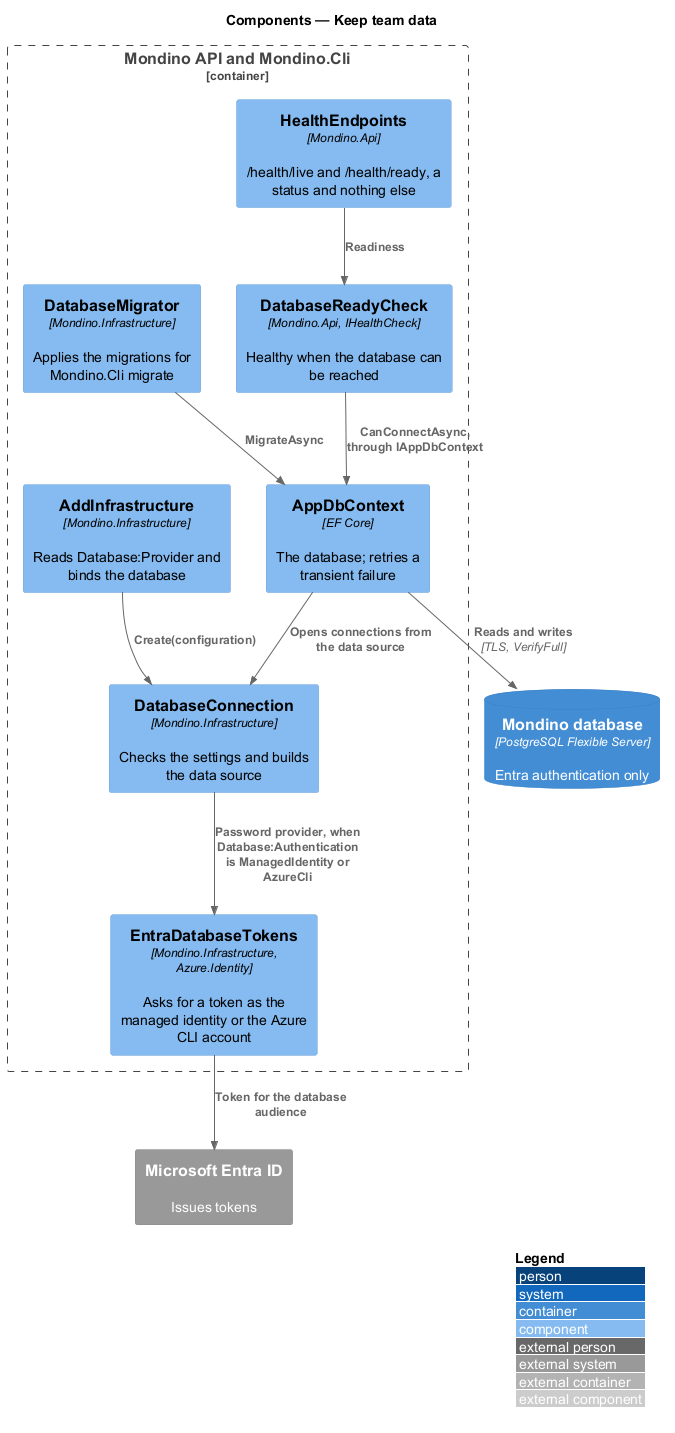
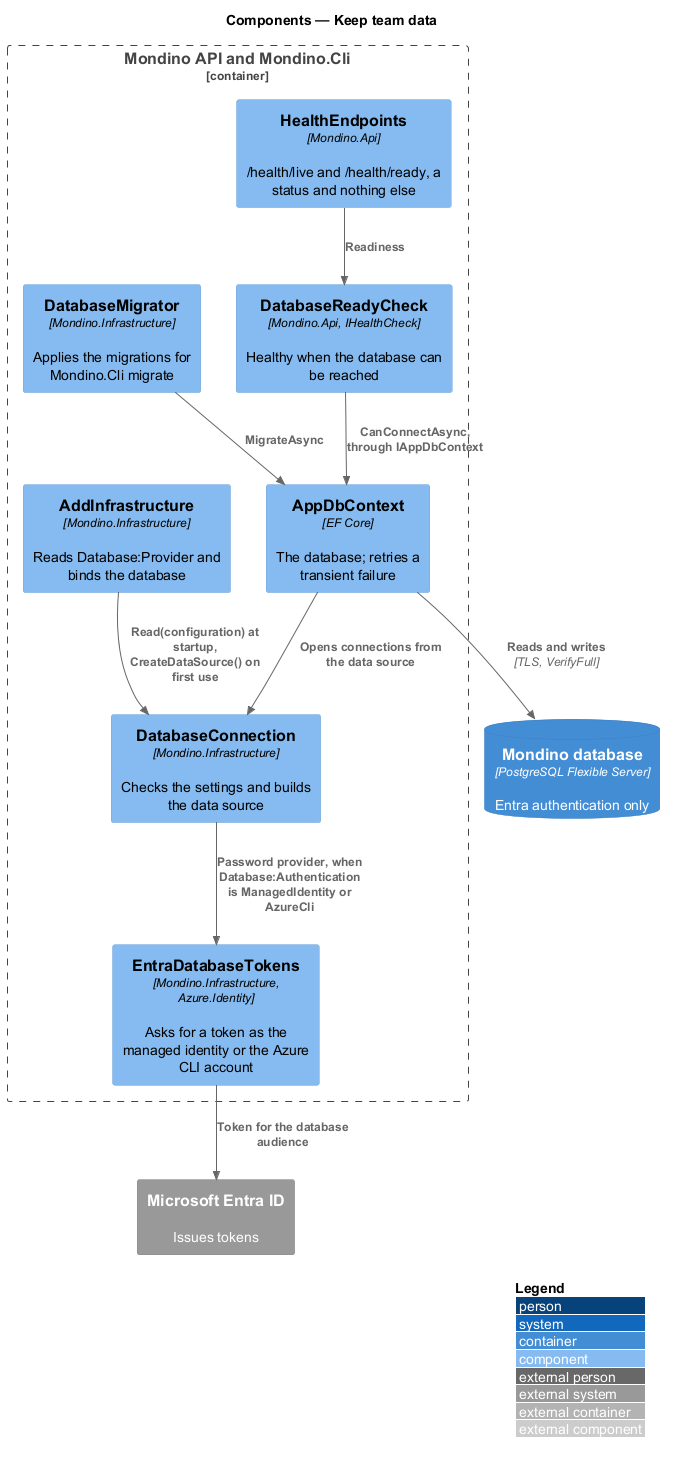
Migrate the database in the deployment, and require the new version to be ready
deploy.yml publishes Mondino.Cli, lets its runner through the database's
firewall for the length of the step, applies the migrations as
mondino_migrator before anything is published, and removes the rule
whether or not they passed. It then points the app at the database it
migrated, only where a setting differs, and ends by requiring Healthy
from /health/live and /health/ready. The design names DatabaseConnection
as the code built it.

Changed region(s): [[0.0311, 0.0, 0.7156, 0.8597], [0.6844, 0.4299, 0.9956, 0.5834], [0.7467, 0.8597, 0.9644, 0.9826]]

diff --git a/docs/detailed-designs/platform/keep-team-data/README.md b/docs/detailed-designs/platform/keep-team-data/README.md
@@ -44,12 +44,15 @@ firewall rules on this server, and assigns it to `mondino-deploy`.
 The administrator is a member of `mondino_migrator`, so an operator can apply the migrations by
 hand as that role and the tables keep one owner.
 
-**`DatabaseConnection`** — static class in `Mondino.Infrastructure` (`Persistence`).
-`AddInfrastructure` calls it when `Database:Provider` is `PostgreSQL`.
+**`DatabaseConnection`** — class in `Mondino.Infrastructure` (`Persistence`).
+`AddInfrastructure` uses it when `Database:Provider` is `PostgreSQL`.
 
-- `Create(configuration)` reads `ConnectionStrings:Mondino` and `Database:Authentication` and
-  returns the `NpgsqlDataSource` every `AppDbContext` opens its connections from. The data
-  source is a singleton, so its pool is shared and is disposed with the host.
+- `Read(configuration)` reads and checks `ConnectionStrings:Mondino` and
+  `Database:Authentication` as the services are registered, so a wrong setting stops the
+  process at startup. It connects to nothing and asks for no token.
+- `CreateDataSource()` returns the `NpgsqlDataSource` every `AppDbContext` opens its
+  connections from. The data source is a singleton, made on first use, so its pool is shared
+  and is disposed with the host.
 - `Database:Authentication` is a `DatabaseAuthentication`: `Password` (the default),
   `ManagedIdentity` or `AzureCli`. Another value stops the process at startup.
 - With `Password` the connection string is used as it is given, as on a laptop.
@@ -65,7 +68,8 @@ token for the database's audience, `https://ossrdbms-aad.database.windows.net/.d
 - `For(ManagedIdentity)` holds a `ManagedIdentityCredential` for the system-assigned identity;
   `For(AzureCli)` holds an `AzureCliCredential`, which answers as whoever `az login` signed in.
   The credential is named by the setting and never discovered.
-- `GetAsync` is called when a physical connection is opened. The token is never logged.
+- `Get` and `GetAsync` are called when a physical connection is opened. The token is never
+  logged.
 
 **Retries.** `AppDbContext` is configured with the provider's retrying execution strategy
 (`EnableRetryOnFailure`), so a transient failure is tried again. No handler opens a transaction
